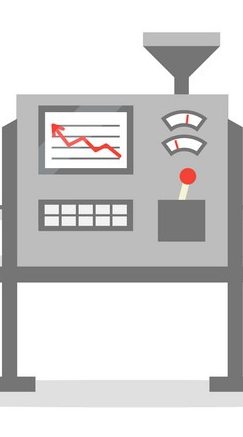
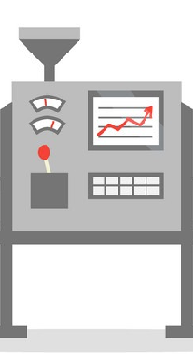
Adicionado as seguintes imagens: caixaUm, portaUmVerde, portaDoisVerde, portaUmVermelho, portaDoisVermelho.

diff --git a/ProjetoSOSemaforo/src/Prototipo.java b/ProjetoSOSemaforo/src/Prototipo.java
@@ -1,5 +1,7 @@
 
 
+import java.awt.Color;
+
 import javax.swing.ImageIcon;
 import javax.swing.JFrame;
 import javax.swing.JLabel;
@@ -18,6 +20,9 @@ public class Prototipo extends JFrame {
 
 		painel = new JPanel();
 
+		//Color minhaCor = new Color(217, 228, 241);
+		painel.setBackground(Color.white);
+		
 		setContentPane(painel);
 
 		painel.setLayout(null);
@@ -33,20 +38,29 @@ public class Prototipo extends JFrame {
 
 		JLabel steraParteUm = new JLabel();
 		steraParteUm.setIcon(new ImageIcon("img/ParteUm.png"));
-		steraParteUm.setBounds(20, 350, 410, 250);
+		steraParteUm.setBounds(106, 354, 410, 250);
+		
+		JLabel steraParteDois = new JLabel();
+		steraParteDois.setIcon(new ImageIcon("img/ParteDois.png"));
+		steraParteDois.setBounds(355, 205, 700, 370);
 		
 		JLabel steraParteTres = new JLabel();
 		steraParteTres.setIcon(new ImageIcon("img/ParteTres.png"));
-		steraParteTres.setBounds(590, 350, 410, 250);
+		steraParteTres.setBounds(546, 351, 410, 250);
 
-		JLabel steraParteDois = new JLabel();
-		steraParteDois.setIcon(new ImageIcon("img/ParteDois.png"));
-		steraParteDois.setBounds(300, 280, 700, 370);
+		JLabel caixaUm = new JLabel();
+		caixaUm.setIcon(new ImageIcon("img/caixaUm.png"));
+		caixaUm.setBounds(150, 329, 76, 55);
 		
+		JLabel portaUmVerde = new JLabel();
+		portaUmVerde.setIcon(new ImageIcon("img/portaUmVerde.png"));
+		portaUmVerde.setBounds(343, 258, 12, 69);
 
 		painel.add(steraParteUm);
 		painel.add(steraParteDois);
 		painel.add(steraParteTres);
+		painel.add(caixaUm);
+		painel.add(portaUmVerde);
 		painel.add(fundoInicio);
 		
 		this.setVisible(true);
